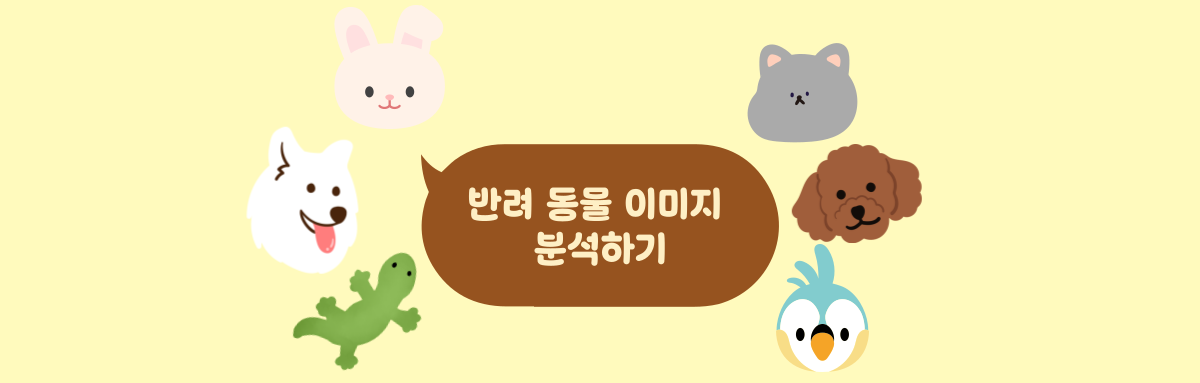
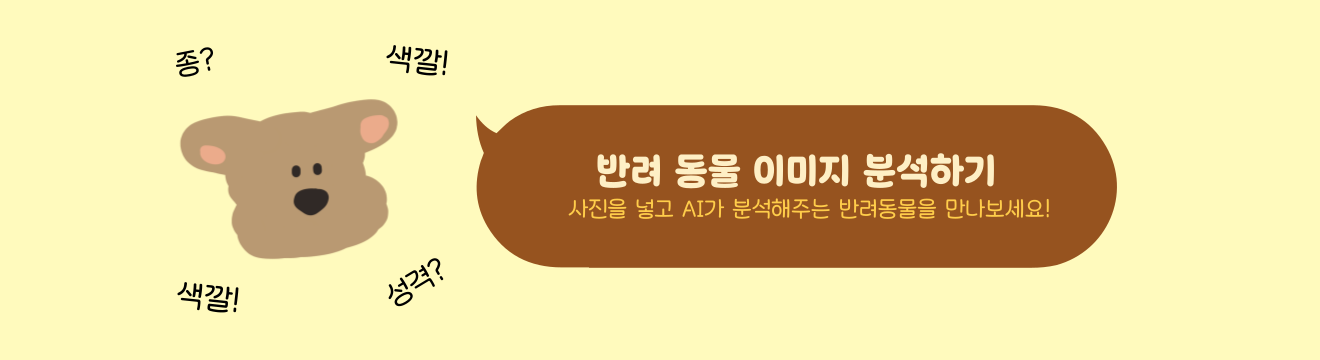
[fix] 배너 이미지 전체 수정 및 커뮤니티 새글 css 추가

Changed region(s): [[0.1233, 0.0, 0.8633, 0.9778], [0.1233, 0.7944, 0.185, 0.8861], [0.1233, 0.1222, 0.1542, 0.2139]]

diff --git a/write.html b/write.html
@@ -4,6 +4,7 @@
     <meta charset="UTF-8" />
     <meta name="viewport" content="width=device-width, initial-scale=1.0" />
     <script src="./script.js" defer></script>
+    <script src="https://cdn.jsdelivr.net/npm/@supabase/supabase-js"></script>
     <!-- favicon -->
     <link
       rel="icon"
@@ -47,23 +48,62 @@
 
     <title>PETTY | 반려동물과 함께 떠나는 완벽한 여행</title>
 
-    <link rel="stylesheet" href="style.css" />
     <link rel="stylesheet" href="common.css" />
-    <script src="https://cdn.jsdelivr.net/npm/@supabase/supabase-js"></script>
+    <link rel="stylesheet" href="write.css" />
   </head>
   <!-- ====== body ======= -->
   <body>
     <!-- nav bar - js -->
     <div id="navbar"></div>
 
-    <section class="write-container">
-      <h2>게시글 작성</h2>
-      <form id="postForm">
-        <input type="text" id="title" placeholder="제목" required />
-        <textarea id="content" placeholder="내용" required></textarea>
-        <input type="file" id="image" />
-        <button type="submit">게시글 작성</button>
-      </form>
+    <section class="container mt-4">
+      <img src="./asset/006.png" class="img-fluid" />
+    </section>
+
+    <section class="container mt-5 form-section">
+      <div class="card shadow-lg p-4">
+        <div class="card-body text-center">
+          <h2 class="card-title mb-3">게시글 작성</h2>
+          <p class="text-muted">
+            반려동물의 사진, 자랑글, 고민글 등 다양한 이야기를 나눠보세요
+          </p>
+
+          <form id="postForm">
+            <!-- 제목 입력 -->
+            <div class="form-group mb-3">
+              <input
+                type="text"
+                id="title"
+                class="form-control"
+                placeholder="제목을 입력하세요"
+                required
+              />
+            </div>
+
+            <!-- 내용 입력 -->
+            <div class="form-group mb-3">
+              <textarea
+                id="content"
+                class="form-control"
+                rows="4"
+                placeholder="내용을 입력하세요"
+                required
+              ></textarea>
+            </div>
+
+            <!-- 이미지 업로드 -->
+            <div class="form-group mb-3">
+              <label for="image" class="form-label">이미지 업로드</label>
+              <input type="file" id="image" class="form-control" />
+            </div>
+
+            <!-- 제출 버튼 -->
+            <button type="submit" class="btn btn-success w-100">
+              게시글 작성
+            </button>
+          </form>
+        </div>
+      </div>
     </section>
 
     <!-- nav bar - js -->

diff --git a/reco.html b/reco.html
@@ -4,6 +4,7 @@
     <meta charset="UTF-8" />
     <meta name="viewport" content="width=device-width, initial-scale=1.0" />
     <script src="./script.js" defer></script>
+    <script src="https://cdn.jsdelivr.net/npm/@supabase/supabase-js"></script>
     <!-- favicon -->
     <link
       rel="icon"
@@ -50,12 +51,12 @@
         href="https://cdnjs.cloudflare.com/ajax/libs/font-awesome/6.4.0/css/all.min.css"
       />
     </head>
-
+    
     <title>PETTY | 반려동물과 함께 떠나는 완벽한 여행</title>
 
     <link rel="stylesheet" href="./common.css" />
     <link rel="stylesheet" href="./reco.css" />
-    <script src="https://cdn.jsdelivr.net/npm/@supabase/supabase-js"></script>
+    
   </head>
   <!-- ====== body ======= -->
   <body>
@@ -65,7 +66,7 @@
     </section>
 
     <section class="container mt-4">
-      <img src="./asset/006.png" class="img-fluid" />
+      <img src="./asset/008.png" class="img-fluid" />
     </section>
     <section class="container mt-4 sect-body">
       <!-- <div id="chat-messages"> -->
@@ -175,6 +176,7 @@
     <script src="./script.js"></script>
     <script src="./reco.js"></script>
     <script src="./main.js"></script>
+    <script src="./post.js"></script>
 
     <!-- Bootstrap JS (Optional, for features like dropdowns) -->
     <script src="https://cdn.jsdelivr.net/npm/bootstrap@5.3.0/dist/js/bootstrap.bundle.min.js"></script>

diff --git a/vision.html b/vision.html
@@ -4,6 +4,7 @@
     <meta charset="UTF-8" />
     <meta name="viewport" content="width=device-width, initial-scale=1.0" />
     <script src="./script.js" defer></script>
+    <script src="https://cdn.jsdelivr.net/npm/@supabase/supabase-js"></script>
     <!-- favicon -->
     <link
       rel="icon"
@@ -44,11 +45,9 @@
       rel="stylesheet"
       href="https://cdn.jsdelivr.net/npm/bootstrap-icons@1.11.3/font/bootstrap-icons.min.css"
     />
-
     <title>PETTY | 반려동물과 함께 떠나는 완벽한 여행</title>
     <link rel="stylesheet" href="common.css" />
     <link rel="stylesheet" href="index.css" />
-    <script src="https://cdn.jsdelivr.net/npm/@supabase/supabase-js"></script>
   </head>
   <!-- ====== body ======= -->
   <body>
@@ -111,6 +110,7 @@
     <script src="./script.js" defer></script>
     <script src="./vision.js" defer></script>
     <script src="./main.js"></script>
+    <script src="./post.js"></script>
 
     <!-- Bootstrap JS (Optional, for features like dropdowns) -->
     <script src="https://cdn.jsdelivr.net/npm/bootstrap@5.3.0/dist/js/bootstrap.bundle.min.js"></script>

diff --git a/community.html b/community.html
@@ -4,6 +4,7 @@
     <meta charset="UTF-8" />
     <meta name="viewport" content="width=device-width, initial-scale=1.0" />
     <script src="./script.js" defer></script>
+    <script src="https://cdn.jsdelivr.net/npm/@supabase/supabase-js"></script>
     <!-- favicon -->
     <link
       rel="icon"
@@ -48,15 +49,17 @@
     <title>PETTY | 반려동물과 함께 떠나는 완벽한 여행</title>
     <link rel="stylesheet" href="common.css" />
     <link rel="stylesheet" href="comunity.css" />
-    <script src="https://cdn.jsdelivr.net/npm/@supabase/supabase-js"></script>
   </head>
   <!-- ====== body ======= -->
   <body>
     <!-- nav bar - js -->
     <div id="navbar"></div>
 
+    <section class="container mt-4">
+      <img src="./asset/006.png" class="img-fluid" />
+    </section>
     <section class="container form-container">
-      <h2>커뮤니티</h2>
+      <h4>🐾 집사들의 글</h4>
       <button id="addPostBtn" class="btn btn-primary">게시글 추가</button>
     </section>
 

diff --git a/index.html b/index.html
@@ -5,6 +5,7 @@
     <meta name="viewport" content="width=device-width, initial-scale=1.0" />
     <script src="./script.js" defer></script>
     <!-- favicon -->
+    <script src="https://cdn.jsdelivr.net/npm/@supabase/supabase-js"></script>
     <link
       rel="icon"
       type="image/png"
@@ -48,7 +49,6 @@
     <title>PETTY | 반려동물과 함께 떠나는 완벽한 여행</title>
     <link rel="stylesheet" href="common.css" />
     <link rel="stylesheet" href="index.css" />
-    <script src="https://cdn.jsdelivr.net/npm/@supabase/supabase-js"></script>
   </head>
   <!-- ====== body ======= -->
   <body>
@@ -169,6 +169,7 @@
     <div id="footer"></div>
     <script src="./script.js"></script>
     <script src="./main.js"></script>
+    <script src="./post.js"></script>
     <!-- Bootstrap JS (Optional, for features like dropdowns) -->
     <script src="https://cdn.jsdelivr.net/npm/bootstrap@5.3.0/dist/js/bootstrap.bundle.min.js"></script>
   </body>

diff --git a/reco.css b/reco.css
@@ -1,33 +1,3 @@
-@font-face {
-  font-family: "HakgyoansimDunggeunmisoTTF-B";
-  src: url("https://fastly.jsdelivr.net/gh/projectnoonnu/2408-5@1.0/HakgyoansimDunggeunmisoTTF-B.woff2")
-    format("woff2");
-  font-weight: 700;
-  font-style: normal;
-}
-@font-face {
-  font-family: "Pretendard-Regular";
-  src: url("https://fastly.jsdelivr.net/gh/Project-Noonnu/noonfonts_2107@1.1/Pretendard-Regular.woff")
-    format("woff");
-  font-weight: 400;
-  font-style: normal;
-}
-@font-face {
-  font-family: "GmarketSansMedium";
-  src: url("https://fastly.jsdelivr.net/gh/projectnoonnu/noonfonts_2001@1.1/GmarketSansMedium.woff")
-    format("woff");
-  font-weight: normal;
-  font-style: normal;
-}
-
-body {
-  font-family: "Pretendard-Regular";
-  height: 100vh;
-  margin: 0;
-  background-color: #f0f0f0; /* 배경색 추가 */
-  display: flex;
-  flex-direction: column;
-}
 .sect-body {
   display: flex;
   flex-direction: column;

diff --git a/login.html b/login.html
@@ -4,6 +4,7 @@
     <meta charset="UTF-8" />
     <meta name="viewport" content="width=device-width, initial-scale=1.0" />
     <script src="./script.js" defer></script>
+    <script src="https://cdn.jsdelivr.net/npm/@supabase/supabase-js"></script>
     <!-- favicon -->
     <link
       rel="icon"
@@ -48,7 +49,6 @@
     <title>PETTY | 반려동물과 함께 떠나는 완벽한 여행</title>
     <link rel="stylesheet" href="common.css" />
     <link rel="stylesheet" href="login.css" />
-    <script src="https://cdn.jsdelivr.net/npm/@supabase/supabase-js"></script>
   </head>
   <!-- ====== body ======= -->
   <body>
@@ -75,6 +75,7 @@
     <div id="footer"></div>
     <script src="./script.js"></script>
     <script src="./main.js"></script>
+
     <!-- Bootstrap JS (Optional, for features like dropdowns) -->
     <script src="https://cdn.jsdelivr.net/npm/bootstrap@5.3.0/dist/js/bootstrap.bundle.min.js"></script>
   </body>

diff --git a/templates/navbar.html b/templates/navbar.html
@@ -1,4 +1,6 @@
-<nav class="navbar navbar-expand-lg navbar-light bg-white shadow-sm">
+<nav
+  class="navbar navbar-expand-lg navbar-light bg-white shadow-sm container-fluid"
+>
   <div class="container">
     <a class="navbar-brand fw-bold text-primary" href="./index.html">
       <img class="img-fluid nav-logo-img" src="./asset/logo-b.png" />
@@ -23,7 +25,7 @@
           <a class="nav-link" href="./community.html">커뮤니티</a>
         </li>
         <li class="nav-item">
-          <button id="login-btn" class="btn btn-primary">로그인</button>
+          <button id="login-btn" class="btn btn-success">로그인</button>
           <button id="logout-btn" class="btn btn-danger" style="display: none">
             로그아웃
           </button>

diff --git a/index.css b/index.css
@@ -16,6 +16,12 @@
   max-width: 1200px;
 }
 
+.col-md-4 {
+  border-radius: 15px;
+}
+.col-md-4 :hover {
+  background-color: rgba(255, 255, 230, 0.459);
+}
 /* Features Section */
 /* .features .card {
     border: none;
@@ -51,6 +57,7 @@
   display: flex;
   flex-direction: column;
   margin-top: 20px;
+  border: 0px;
 }
 
 .features .card:hover {
@@ -101,4 +108,24 @@
 .input-group {
   border-radius: 25px;
   overflow: hidden;
+}
+
+.card :hover {
+  background-color: rgba(255, 255, 230, 0.459);
+}
+
+@media (max-width: 768px) {
+  .col-md-4 {
+    width: 70%;
+  }
+  .features {
+    align-items: center;
+    justify-content: center;
+  }
+}
+
+@media (max-width: 576px) {
+  .carousel img {
+    height: 250px;
+  }
 }

diff --git a/post-detail.html b/post-detail.html
@@ -4,6 +4,7 @@
     <meta charset="UTF-8" />
     <meta name="viewport" content="width=device-width, initial-scale=1.0" />
     <script src="./script.js" defer></script>
+    <script src="https://cdn.jsdelivr.net/npm/@supabase/supabase-js"></script>
     <!-- favicon -->
     <link
       rel="icon"
@@ -48,7 +49,6 @@
     <title>PETTY | 반려동물과 함께 떠나는 완벽한 여행</title>
     <link rel="stylesheet" href="common.css" />
     <link rel="stylesheet" href="comunity.css" />
-    <script src="https://cdn.jsdelivr.net/npm/@supabase/supabase-js"></script>
   </head>
   <!-- ====== body ======= -->
   <body>

diff --git a/common.css b/common.css
@@ -21,17 +21,23 @@
 }
 body {
   font-family: "Pretendard-Regular";
-  background-color: #ffffff !important;
+  background-color: #fcf2d74d !important;
   min-height: 100vh;
   margin: 0;
   display: flex;
   flex-direction: column;
+  word-break: keep-all;
 }
+
 .main {
   flex: 1;
 }
 h2 {
   font-family: "HakgyoansimDunggeunmisoTTF-B";
+}
+
+a {
+  text-decoration-line: none;
 }
 
 /* Navigation Bar */
@@ -84,7 +90,7 @@ h2 {
     width: 80% !important;
   }
   .carousel img {
-    height: 300px;
+    height: 30% !important;
   }
 }
 

diff --git a/main.js b/main.js
@@ -20,9 +20,10 @@ document.addEventListener("DOMContentLoaded", async () => {
 
   // ✅ 네비게이션 바 동적으로 로드
   await loadNavbar();
-
-  // ✅ 네비게이션 바가 로드된 후 로그인 상태 확인
-  checkLogin();
+  setTimeout(() => {
+    console.log("네비게이션 로드 후 실행");
+    checkLogin();
+  }, 100);
 });
 // 📌 네비게이션 바 동적 로드 함수
 async function loadNavbar() {
